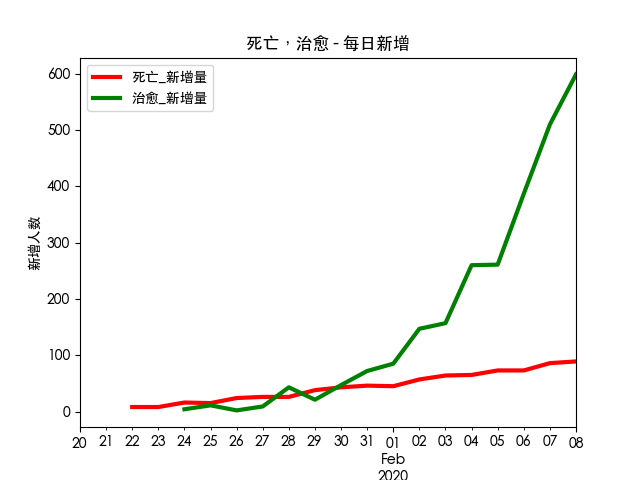
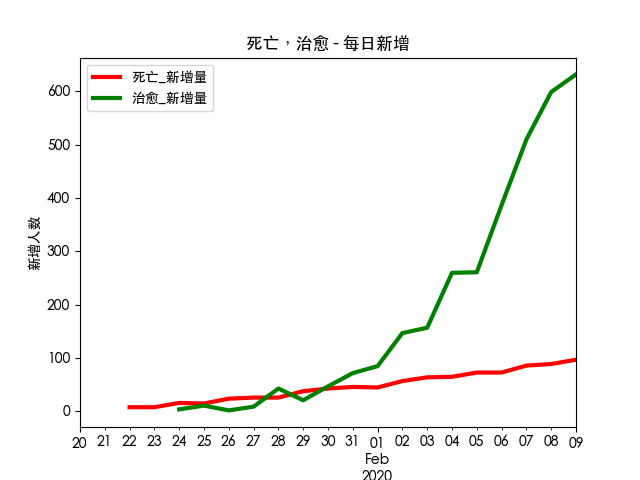
Update for Feb 9 data

diff --git a/README.md b/README.md
@@ -5,7 +5,7 @@
 
 这是根据卫建委发布的官方数据制作的每日疫情发展趋势图。每日830~930之间根据卫建委发布的最新疫情通报更新。
 
-- 更新时间: **`08:30, 02-09`**
+- 更新时间: **`08:30, 02-10`**
 - [网页地址](https://zire.github.io/pandemic2020/)
 - [Github Repo地址](https://github.com/zire/pandemic2020)
 - 数据来源：[中华人民共和国国家卫生健康委员会卫生应急办公室](http://www.nhc.gov.cn/)
@@ -33,6 +33,7 @@
 
 |    |                                                                                               日期 |    接触 |    观察 |   疑似 |   确诊 |   重症 |   死亡 |   治愈 |
 |---:|---------------------------------------------------------------------------------------------------:|--------:|--------:|-------:|-------:|-------:|-------:|-------:|
+| 20 | <a href='http://www.nhc.gov.cn/xcs/yqfkdt/202002/167a0e01b2d24274b03b2ca961107929.shtml'>02/09</a> | 399,487 | 187,518 | 23,589 | 35,982 |  6,484 |    908 |  3,281 |
 | 19 |   <a href='http://www.nhc.gov.cn/xcs/yqtb/202002/4f28ab5ca87d42d284833df3ccc8d45a.shtml'>02/08</a> | 371,905 | 188,183 | 28,942 | 33,738 |  6,188 |    811 |  2,649 |
 | 18 |   <a href='http://www.nhc.gov.cn/xcs/yqtb/202002/6c305f6d70f545d59548ba17d79b8229.shtml'>02/07</a> | 345,498 | 189,660 | 27,657 | 31,774 |  6,101 |    722 |  2,050 |
 | 17 |   <a href='http://www.nhc.gov.cn/xcs/yqtb/202002/3db09278e3034f289841300ed09bd0e1.shtml'>02/06</a> | 314,028 | 186,045 | 26,359 | 31,161 |  4,821 |    636 |  1,540 |
@@ -58,6 +59,7 @@
 
 |    |                                                                                               日期 |   接触 |   观察 |   疑似 |   确诊 |   重症 |   死亡 |   治愈 |
 |---:|---------------------------------------------------------------------------------------------------:|-------:|-------:|-------:|-------:|-------:|-------:|-------:|
+| 20 | <a href='http://www.nhc.gov.cn/xcs/yqfkdt/202002/167a0e01b2d24274b03b2ca961107929.shtml'>02/09</a> | 27,582 |   -665 | -5,353 |  2,244 |    296 |     97 |    632 |
 | 19 |   <a href='http://www.nhc.gov.cn/xcs/yqtb/202002/4f28ab5ca87d42d284833df3ccc8d45a.shtml'>02/08</a> | 26,407 | -1,477 |  1,285 |  1,964 |     87 |     89 |    599 |
 | 18 |   <a href='http://www.nhc.gov.cn/xcs/yqtb/202002/6c305f6d70f545d59548ba17d79b8229.shtml'>02/07</a> | 31,470 |  3,615 |  1,298 |    613 |  1,280 |     86 |    510 |
 | 17 |   <a href='http://www.nhc.gov.cn/xcs/yqtb/202002/3db09278e3034f289841300ed09bd0e1.shtml'>02/06</a> | 31,215 |   -300 |  1,657 |  3,143 |    962 |     73 |    387 |
@@ -83,6 +85,7 @@
 
 |    |                                                                                               日期 |   接触 |   观察 |   疑似 |   确诊 |   重症 |   死亡 |   治愈 |
 |---:|---------------------------------------------------------------------------------------------------:|-------:|-------:|-------:|-------:|-------:|-------:|-------:|
+| 20 | <a href='http://www.nhc.gov.cn/xcs/yqfkdt/202002/167a0e01b2d24274b03b2ca961107929.shtml'>02/09</a> |   7.4% |  -0.4% | -18.5% |   6.7% |   4.8% |  12.0% |  23.9% |
 | 19 |   <a href='http://www.nhc.gov.cn/xcs/yqtb/202002/4f28ab5ca87d42d284833df3ccc8d45a.shtml'>02/08</a> |   7.6% |  -0.8% |   4.6% |   6.2% |   1.4% |  12.3% |  29.2% |
 | 18 |   <a href='http://www.nhc.gov.cn/xcs/yqtb/202002/6c305f6d70f545d59548ba17d79b8229.shtml'>02/07</a> |  10.0% |   1.9% |   4.9% |   2.0% |  26.6% |  13.5% |  33.1% |
 | 17 |   <a href='http://www.nhc.gov.cn/xcs/yqtb/202002/3db09278e3034f289841300ed09bd0e1.shtml'>02/06</a> |  11.0% |  -0.2% |   6.7% |  11.2% |  24.9% |  13.0% |  33.6% |
